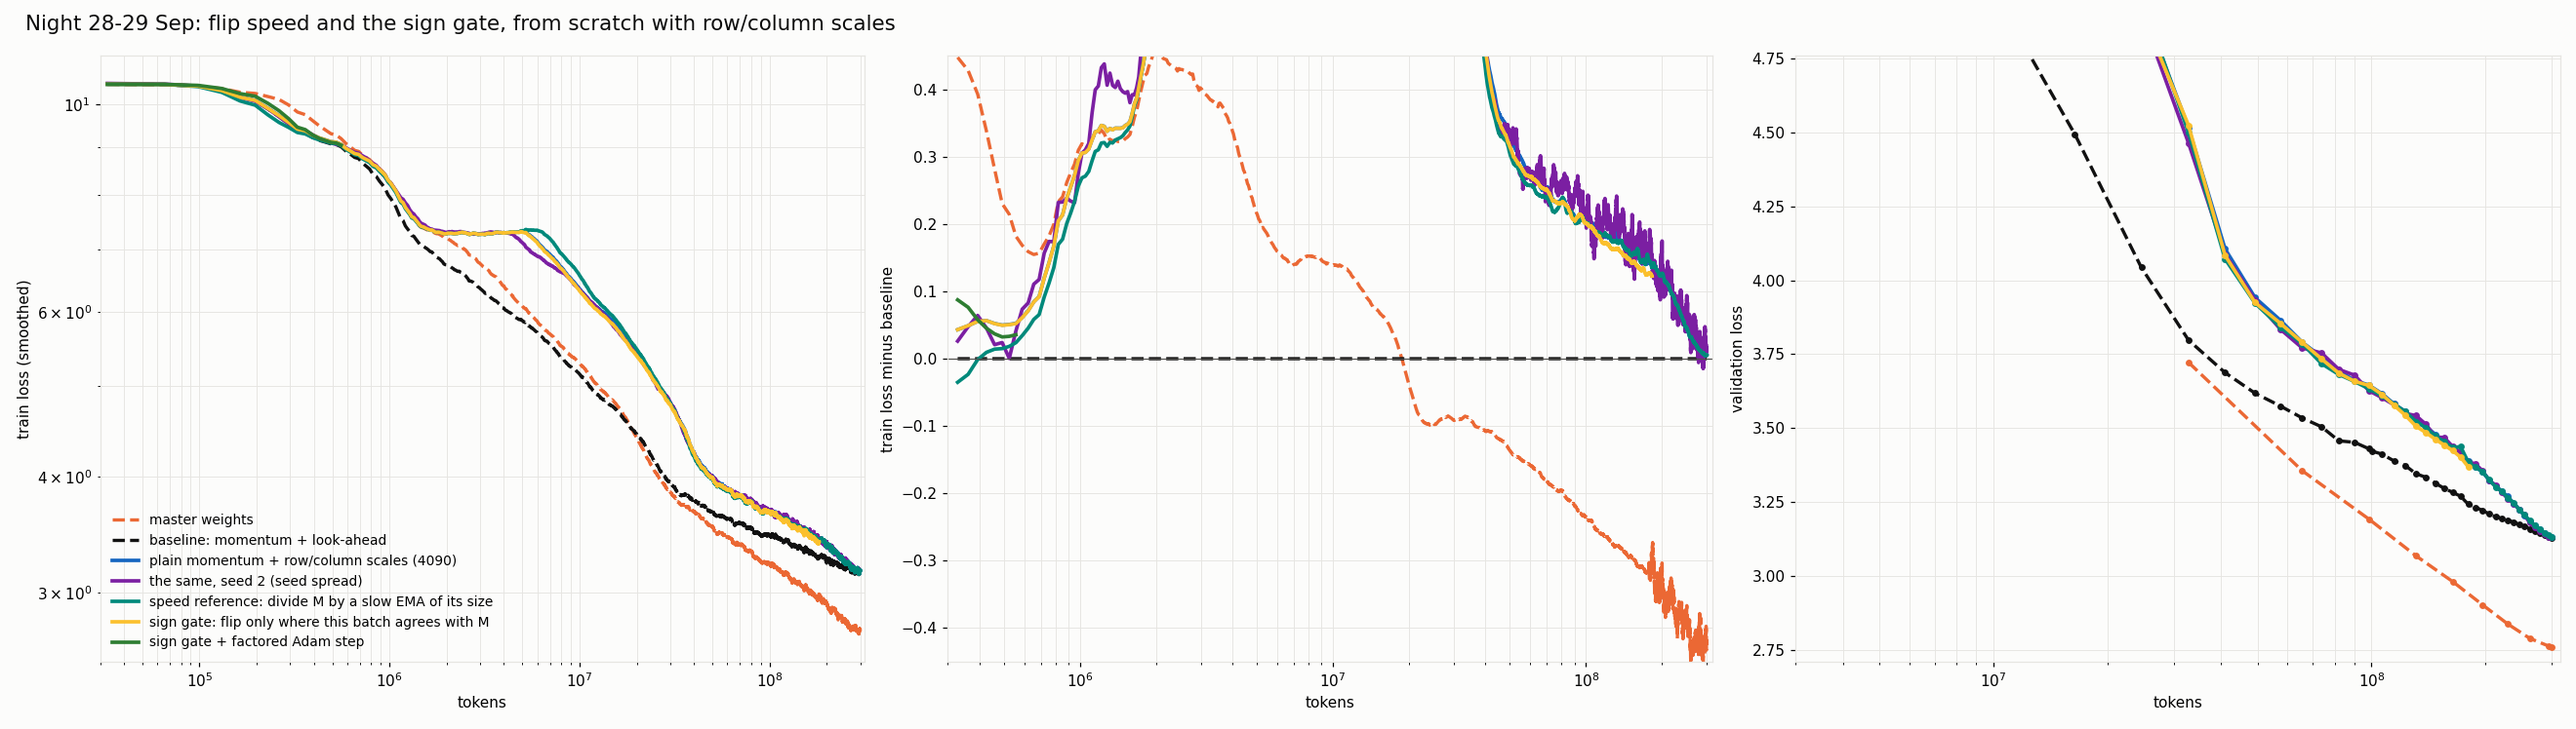
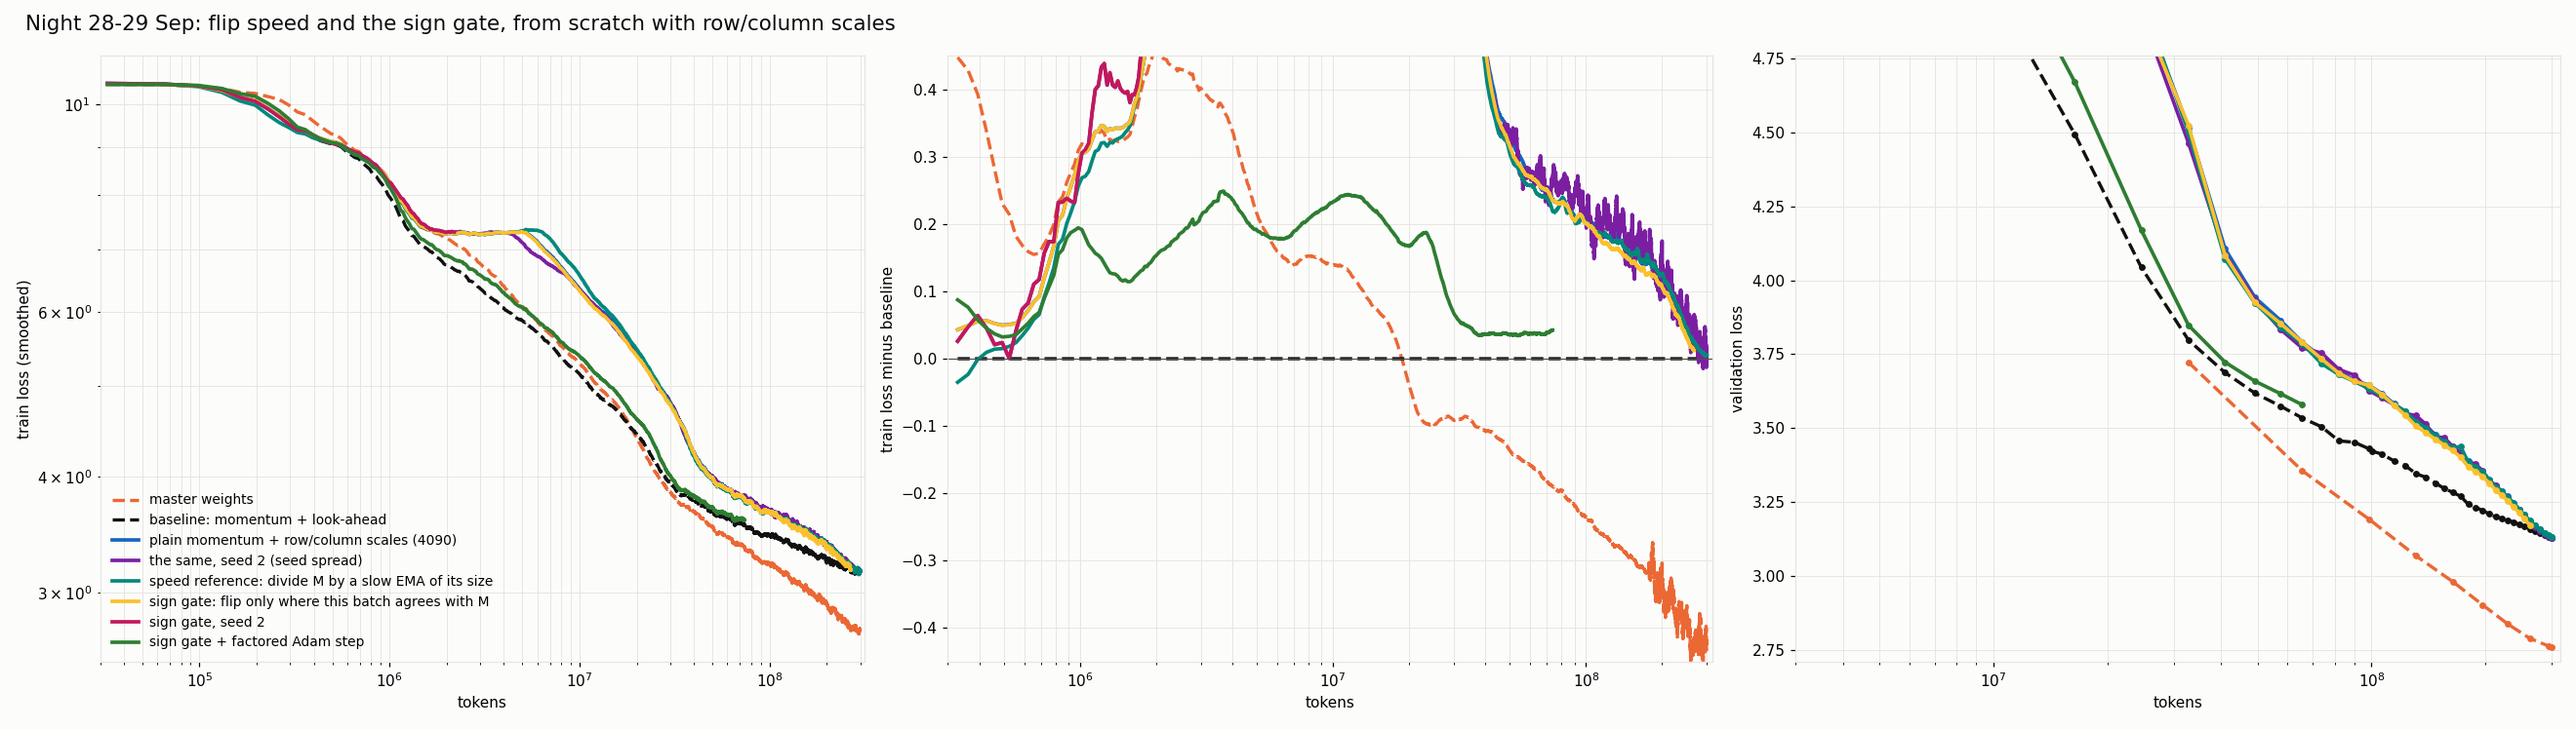
05:30 check: seed spread 0.003 at 300M; gate ahead by 0.013 at 262M; rate control queued; gradient-unit and gravity 0.8 swing tests

diff --git a/scripts/plots/plot_categories.py b/scripts/plots/plot_categories.py
@@ -91,7 +91,8 @@ CATS = {
         ("gate_rc_s0", "sign gate: flip only where this batch agrees with M"),
         ("gate_rc_s0_seed2", "sign gate, seed 2"),
         ("gatevnorm_rc_s0", "sign gate + factored Adam step"),
-        ("vnorm_rc_s0", "factored Adam step (smaller steps where steep)")]),
+        ("vnorm_rc_s0", "factored Adam step (smaller steps where steep)"),
+        ("rate085_rc_s0", "rate control for the gate: plain at 0.85x flip rate")]),
     "momentum_fixes_20M": ("Momentum fixes, 20M from-scratch screens", 2.2e7, [
         ("s20_base", "baseline seed 0"), ("s20_base_seed1", "baseline seed 1"), ("s20_base_seed2", "baseline seed 2"),
         ("s20_gate", "sign gate"), ("s20_vnorm99", "vnorm"), ("s20_gate_vnorm99", "gate + vnorm"),

diff --git a/docs/RUNS.md b/docs/RUNS.md
@@ -1431,3 +1431,17 @@ Swing tests at nola_lab @4500 (41 steps, 25% of coordinates; old rule: -0.0116 a
   at 8750).
 - The 4090 list runner had waited on the tmux server's command line (it keeps the name `queue_4090_c.sh`), idle
   03:37-04:30; fixed, `gatevnorm_rc_s0` started 04:30.
+
+### 29 Sep 05:30
+
+- `rc_s0_seed2` final **3.1273** vs `rc_s0` 3.1307: seed spread at 300M ~0.003.
+- `gate_rc_s0` 3.1717 vs `rc_s0` 3.1850 at step 8000 (-0.013). In training the gate flips 0-30% fewer weights than
+  `rc_s0` (0.328 / 0.270 / 0.161 / 0.053% vs 0.329 / 0.287 / 0.189 / 0.076% at log lines 100 / 300 / 500 / 700), so its
+  rate control `rate085_rc_s0` (`--rate_peak 0.017`, ~the gate's average flip count) is queued on pintail.
+- `gatevnorm_rc_s0` 3.5788 vs `rc_s0` 3.7902 at step 2000 (-0.21), flipping ~0.7x as many weights early.
+- Swing tests (41 steps, 25%): the user's rule (flip chance in absolute gradient units, memory 0.8): -0.0901 at 77k
+  flips/step, lag 1-3 +0.52 / -0.02 / -0.21 (faster swing), momentum vs next gradient -0.17 / -0.11 / -0.00, 40.4%
+  uphill, never follows 9.1%, |M|/|T| 3.8. Gravity 0.8: -0.0559 at 170k, 42.6% uphill, never 10.3%, |M|/|T| 3.4.
+- Probe `rc_s0` @8000 (late, rate 14k flips/step): swing slow (lag 5 still +0.26) but momentum still anti-predicts
+  (-0.19 at lag 5); 45.2% uphill; |M|/|T| at a reversal 13.7; never follows 24.7%.
+- Shoveler had idled 04:30-05:30 (its runner never saw `rc_s0_seed2` finish); restarted, `gate_rc_s0_seed2` running.

diff --git a/docs/QUEUE.md b/docs/QUEUE.md
@@ -6,7 +6,7 @@ by the user with `bash ~/ternary-LLM/scripts/remote/start.sh SCRIPT`), **shovele
 PCs, at most two in use), **laptop**. Token counts are training tokens (32,768 per step at batch 16). From
 2026-09-27 on, new runs are without look-ahead.
 
-Last updated: 2026-09-29 04:35
+Last updated: 2026-09-29 05:35
 
 ## Night 28-29 Sep (planned 01:10, runs to ~10:00)
 
@@ -21,8 +21,8 @@ each run; edit the lists on the remote home, not by rsync from the laptop).
 | machine | now | next (list) | expected |
 |---|---|---|---|
 | 4090 | `speedref_rc_s0` done 3.1315 (= rc_s0); runner stuck 03:37-04:30 (fixed); `gatevnorm_rc_s0` started 04:30 | `vnorm_rc_s0` | ~07:00, ~09:30 |
-| pintail | `gate_rc_s0` (started 02:20; swing arms done: gate best, see RUNS.md) | - | ~06:00 |
-| shoveler | `rc_s0_seed2` (seed-to-seed spread) | `gate_rc_s0_seed2` | ~04:40, ~08:20 |
+| pintail | `gate_rc_s0` (3.1717 vs 3.1850 at step 8000) | `rate085_rc_s0` (the gate's rate control) | ~06:00, ~09:40 |
+| shoveler | `rc_s0_seed2` done 3.1273; idle 04:30-05:30 (runner stuck), `gate_rc_s0_seed2` started 05:30 | - | ~09:10 |
 | laptop | probes: swing test on rc_s0 / speedref_rc_s0 checkpoints @5000, @8000 | - | ~04:30 |
 | 4090 (next to training) | swing tests: gate rate control (old rule x0.62), gravity 0.5, gradient units beta 0.8, gravity 0.8 (relaunched 03:28: first launch died silently) | - | ~03:55, ~04:20, ~04:45, ~05:10 |
 
